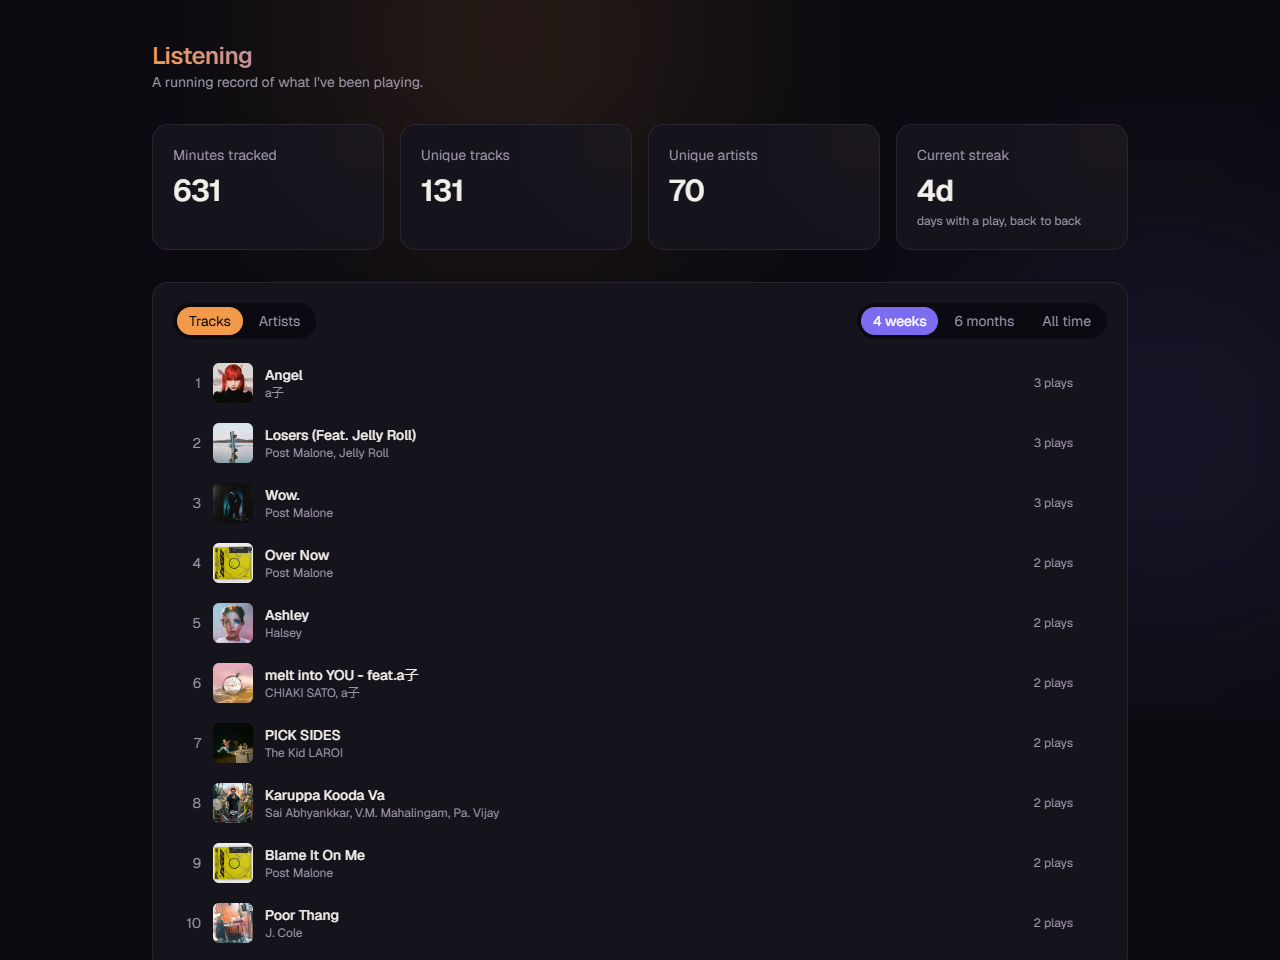
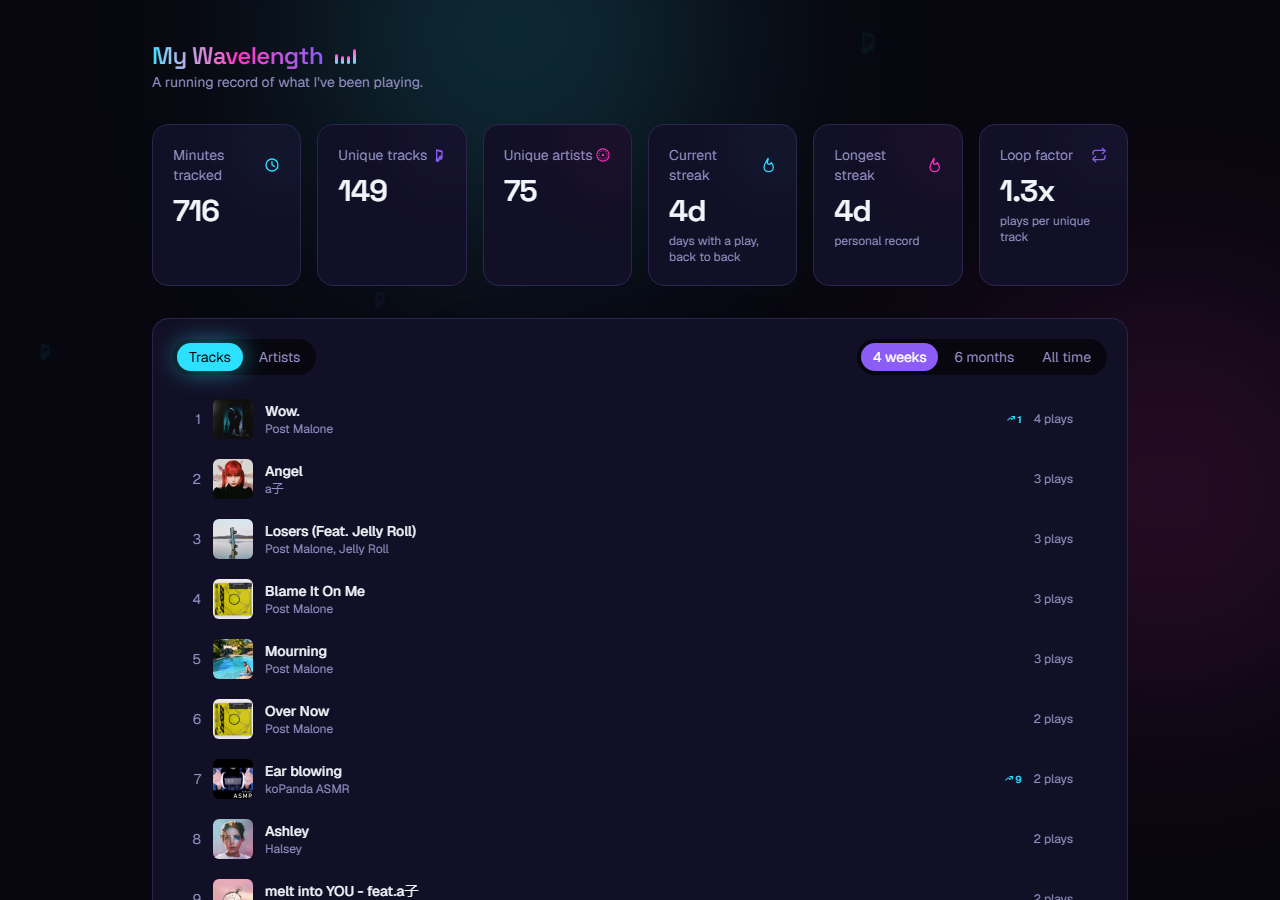
Update My Wavelength project copy and screenshot for redesign

diff --git a/index.html b/index.html
@@ -79,16 +79,18 @@
 				<p>
 					<i>
 						A passion project pairing my love of music with data analytics: a personal dashboard that
-						continuously ingests my own Spotify listening history and visualizes it with an
-						animated, custom-built UI - top tracks/artists/albums, a listening activity heatmap,
-						artist-discovery trends, and a live "now playing" widget.
+						continuously ingests my own Spotify listening history and visualizes it with a
+						neon, music-themed, custom-built UI - top tracks/artists/albums with day-over-day
+						rank-change badges, a listening activity heatmap with peak-time insights, monthly/weekly
+						listening trends, streak stats, and a live "now playing" widget with a spinning vinyl.
 					</i>
 				</p>
 				<ul style="list-style-type: disc; padding-left: 20px;font-family: sans-serif; font-size: 16px;">
 					<li>Built an automated ETL pipeline (GitHub Actions + Spotify Web API) that upserts new
-						listening history into a hosted database on a schedule</li>
-					<li>Designed a dark, custom-themed UI/UX with hand-built charts and Framer Motion
-						animations rather than an off-the-shelf dashboard kit</li>
+						listening history into a hosted database on a schedule, plus a daily snapshot job that
+						powers day-over-day rank-change tracking on top tracks/artists</li>
+					<li>Designed a neon, custom-themed UI/UX with hand-built charts, Framer Motion
+						animations, and music-themed visual flourishes rather than an off-the-shelf dashboard kit</li>
 					<li>Worked around real-world API constraints (Spotify deprecating endpoints/fields
 						mid-project) by redesigning the analytics around the data that remained available</li>
 					<li><span style="text-decoration: underline; font-weight: bold;">Utilized:</span> <i>Next.js,
